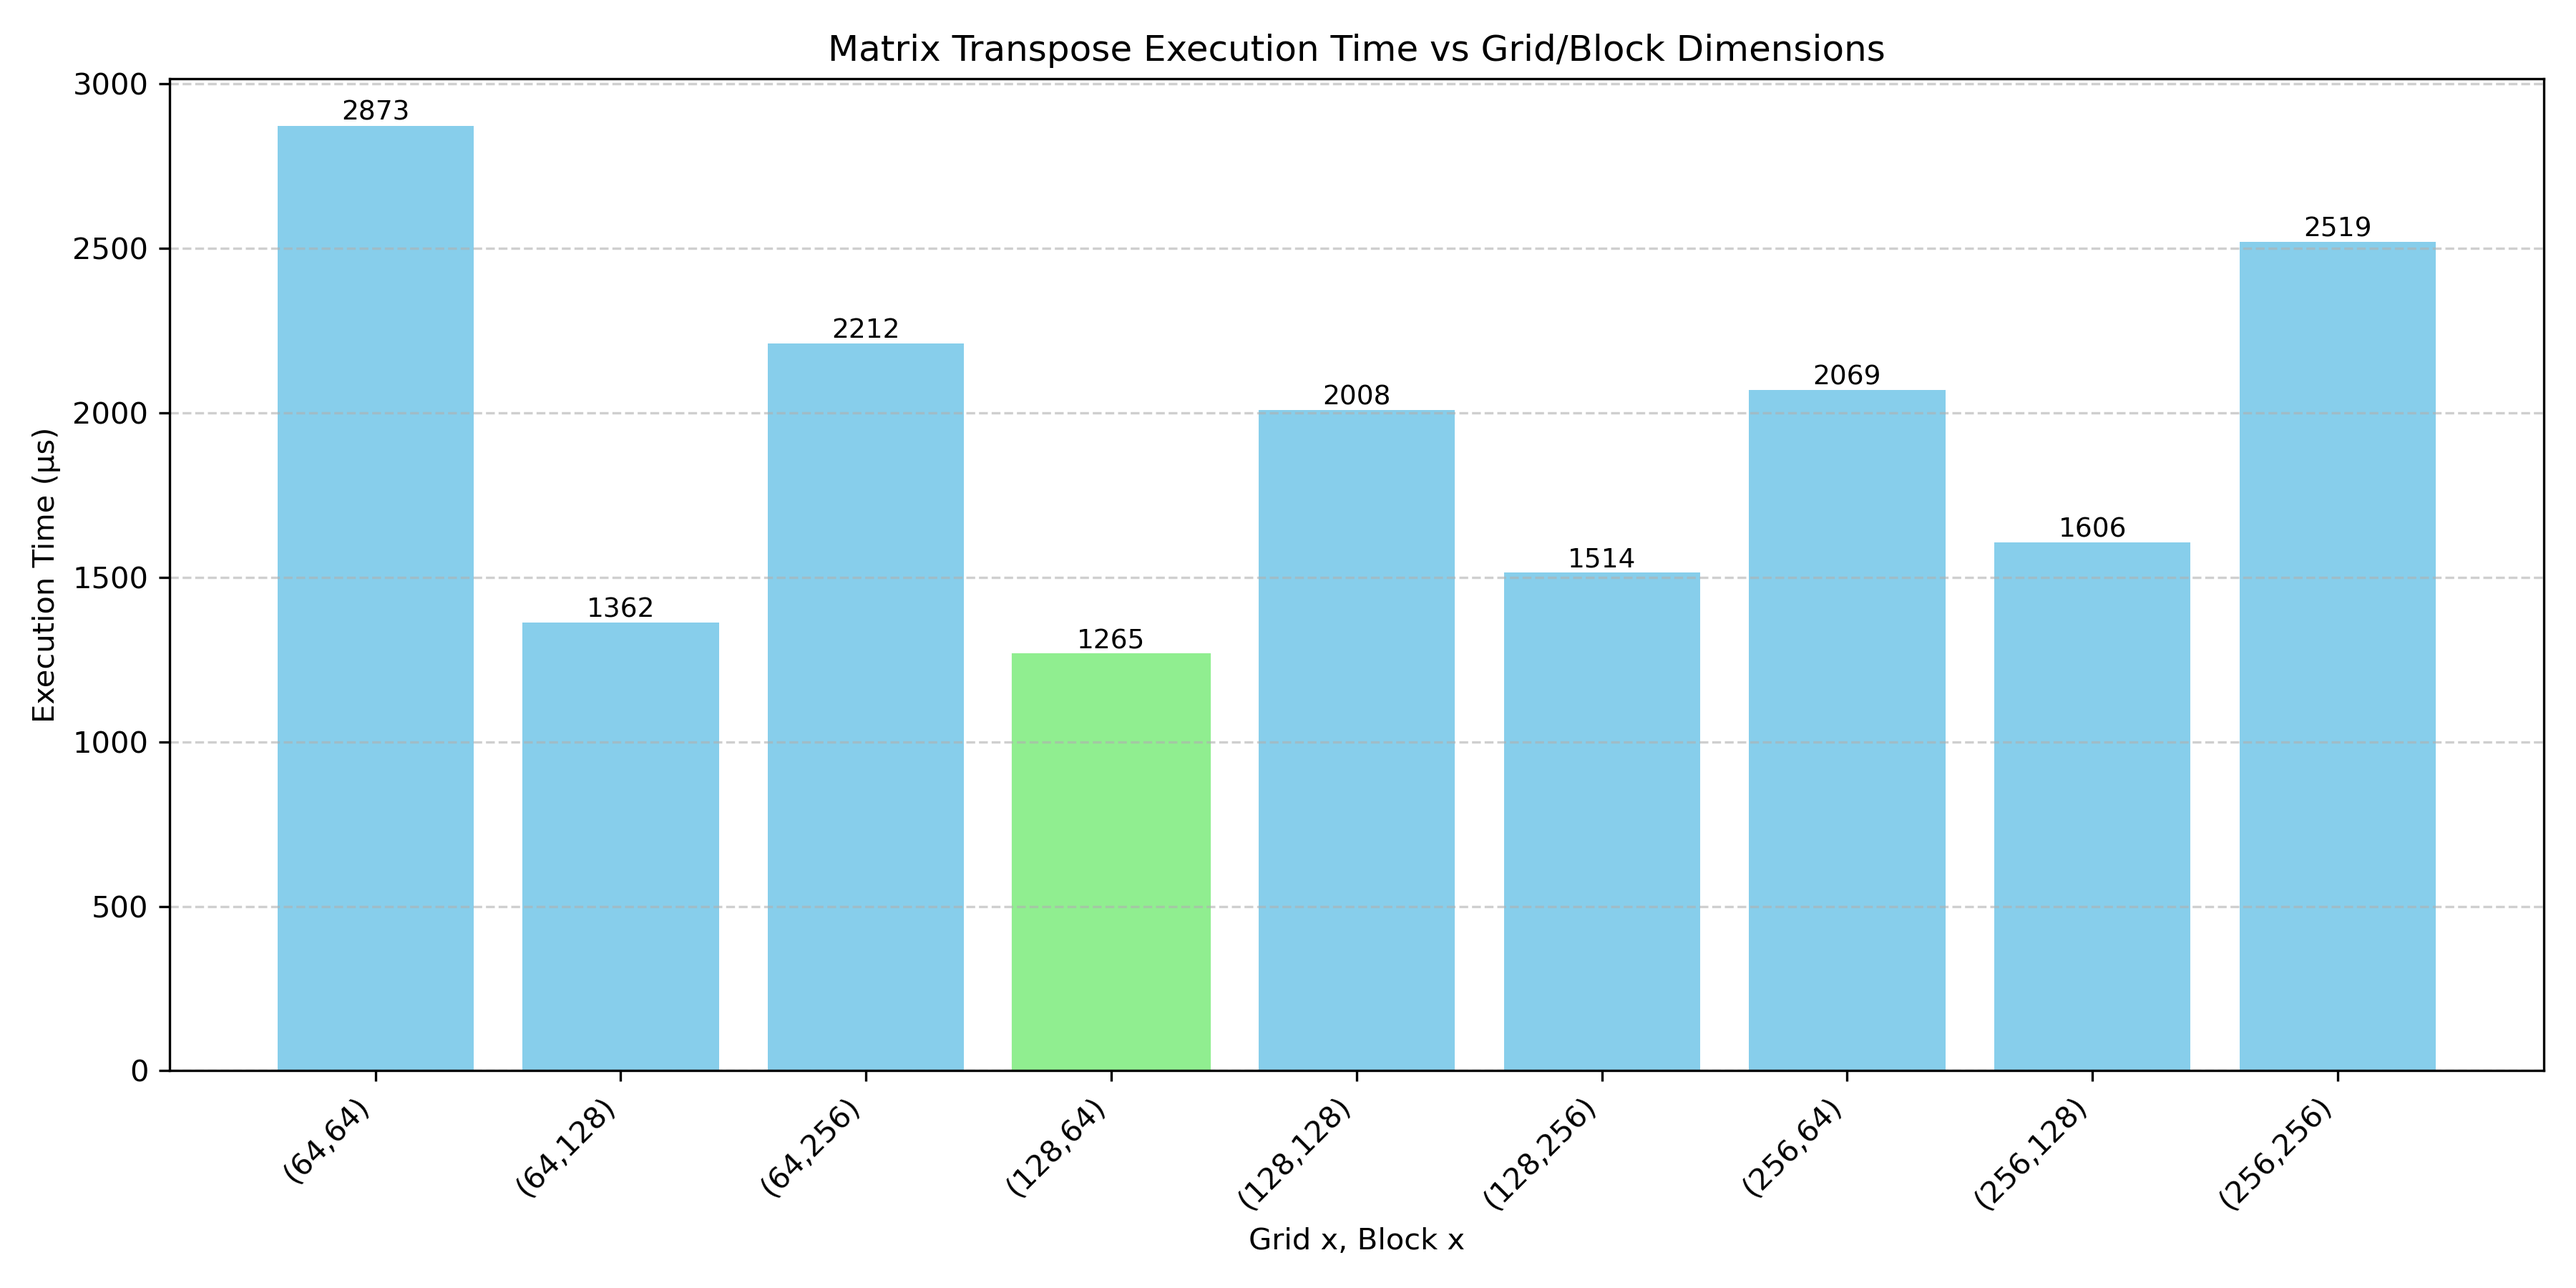
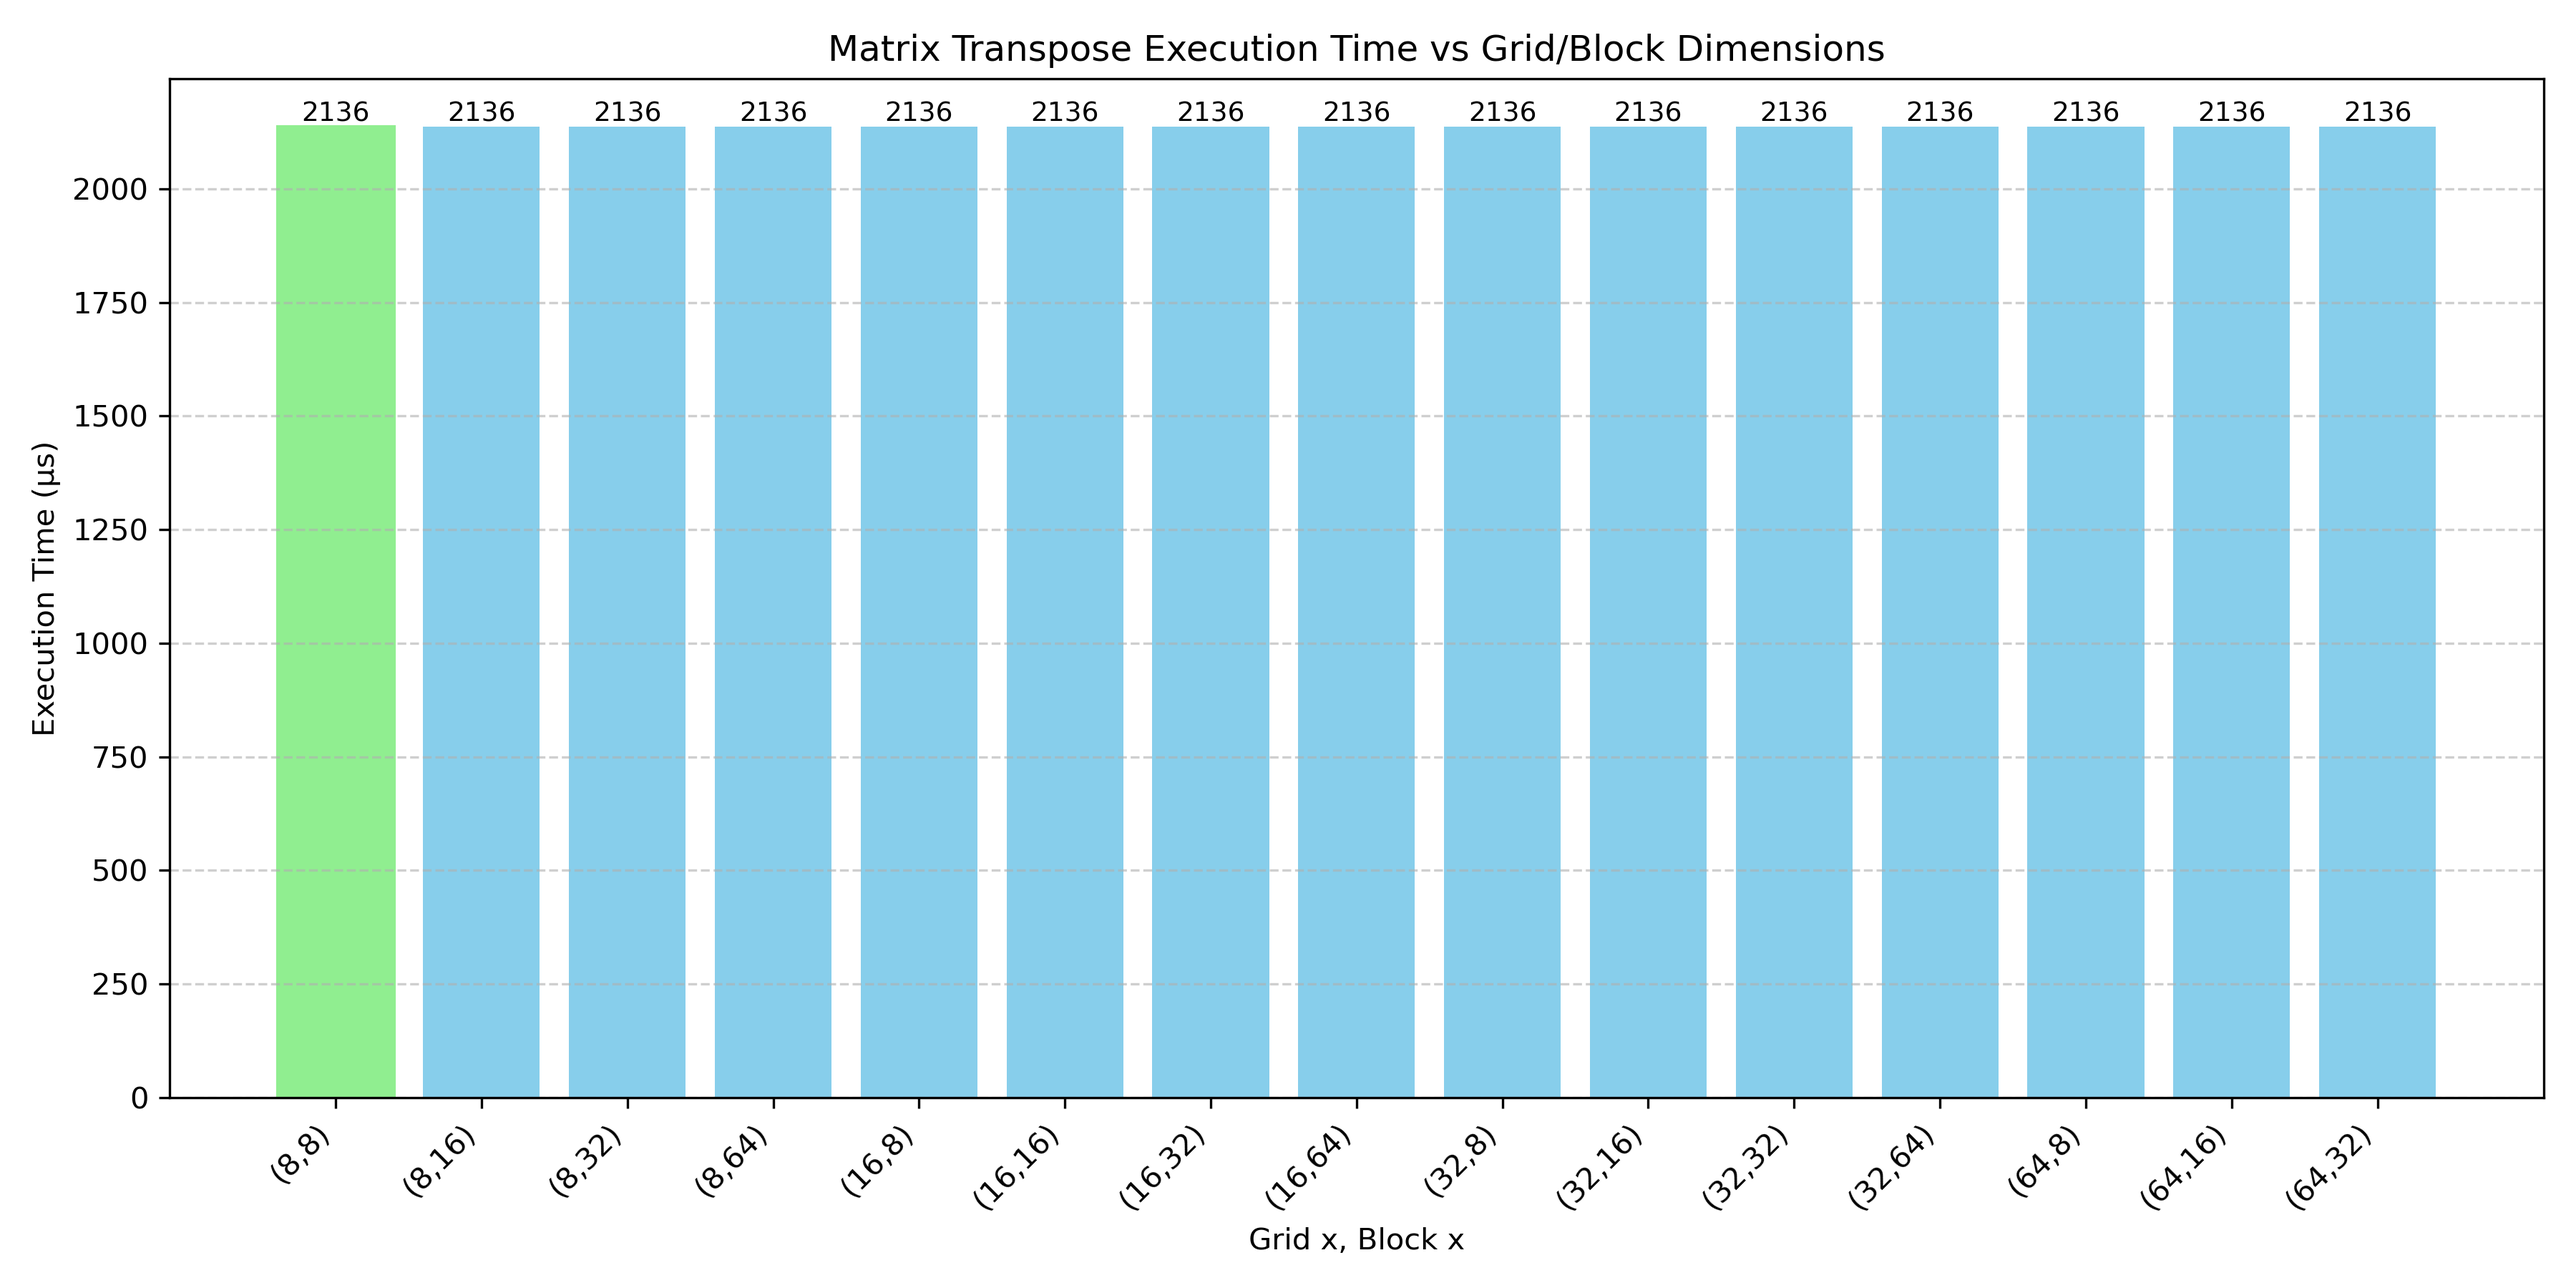
update problem_3.sh

diff --git a/Assignments/Assignment-1/CS25MTECH11015/.ipynb_checkpoints/matrices_generator-checkpoint.py b/Assignments/Assignment-1/CS25MTECH11015/.ipynb_checkpoints/matrices_generator-checkpoint.py
@@ -1,0 +1,42 @@
+#!/usr/bin/env python
+import numpy as np
+import os
+
+def generate_int32_matrix(rows, cols, filename):
+    """
+    Generates an int32 matrix and saves it to CSV.
+    """
+    os.makedirs(os.path.dirname(filename), exist_ok=True)
+    matrix = np.random.randint(-5, 6, size=(rows, cols), dtype=np.int32)
+    np.savetxt(filename, matrix, fmt='%d', delimiter=',')
+    print(f"Matrix saved to {filename} ({rows}x{cols})")
+    return matrix
+
+def generate_rectangular_matrices(output_dir="matrices", max_entries=10000):
+    """
+    Generates several rectangular matrices for multiplication.
+    Ensures total entries do not exceed max_entries.
+    """
+    os.makedirs(output_dir, exist_ok=True)
+    
+    # Example rectangle sizes (rows x cols)
+    sizes = [(64, 64), (128, 128), (10000, 10000), (100, 50), (50, 200), (150, 60), (60, 150)]
+    
+    for i, (rows, cols) in enumerate(sizes, start=1):
+        if rows * cols > max_entries:
+            factor = (max_entries / (rows * cols)) ** 0.5
+            rows = max(1, int(rows * factor))
+            cols = max(1, int(cols * factor))
+        
+        # Generate matrix A
+        A = generate_int32_matrix(rows, cols, f"{output_dir}/matrix_{i}a.csv")
+        # Generate compatible matrix B for multiplication
+        B = generate_int32_matrix(cols, rows, f"{output_dir}/matrix_{i}b.csv")
+        # Compute expected output
+        C = np.matmul(A, B).astype(np.int32)
+        np.savetxt(f"{output_dir}/matrix_{i}c_expected.csv", C, fmt='%d', delimiter=',')
+        print(f"Expected output saved to {output_dir}/matrix_{i}c_expected.csv")
+
+if __name__ == "__main__":
+    generate_rectangular_matrices()
+

diff --git a/Assignments/Assignment-1/CS25MTECH11015/.ipynb_checkpoints/graphs_1_1-checkpoint.py b/Assignments/Assignment-1/CS25MTECH11015/.ipynb_checkpoints/graphs_1_1-checkpoint.py
@@ -1,0 +1,37 @@
+#!/usr/bin/env bash
+import matplotlib.pyplot as plt
+
+# Path to your concatenated results file
+RESULTS_FILE = "results/results_1_1.txt"
+
+Ms = []
+Ns = []
+times = []
+
+with open(RESULTS_FILE, "r") as f:
+    lines = f.readlines()
+
+for i, line in enumerate(lines):
+    if line.startswith("#Thread Blocks(M):"):
+        M = int(line.split(":")[1].strip())
+        N = int(lines[i+1].split(":")[1].strip())  # #Threads Per Block(N)
+        t_line = lines[i+2]
+        # Extract numeric part
+        time_us = int(t_line.split(":")[1].strip().split()[0])
+        Ms.append(M)
+        Ns.append(N)
+        times.append(time_us)
+
+# Create X-axis labels as (M,N)
+labels = [f"({m},{n})" for m,n in zip(Ms,Ns)]
+
+# Plot
+plt.figure(figsize=(12,6))
+plt.bar(labels, times, color='skyblue')
+plt.xlabel("(GridBlocks M, ThreadsPerBlock N)")
+plt.ylabel("Kernel Execution Time (µs)")
+plt.title("Problem 1_1: Runtime vs (M, N) pairs")
+plt.xticks(rotation=45)
+plt.tight_layout()
+plt.show()
+

diff --git a/Assignments/Assignment-1/CS25MTECH11015/graphs_3.py b/Assignments/Assignment-1/CS25MTECH11015/graphs_3.py
@@ -3,7 +3,7 @@ import re
 import matplotlib.pyplot as plt
 
 # Paths
-RESULTS_FILE = "results/results_3_1.txt"
+RESULTS_FILE = "results/results_3.txt"
 PLOTS_DIRECTORY = "plots"
 PLOT_FILE = os.path.join(PLOTS_DIRECTORY, "problem3_1_transpose.png")
 os.makedirs(PLOTS_DIRECTORY, exist_ok=True)
